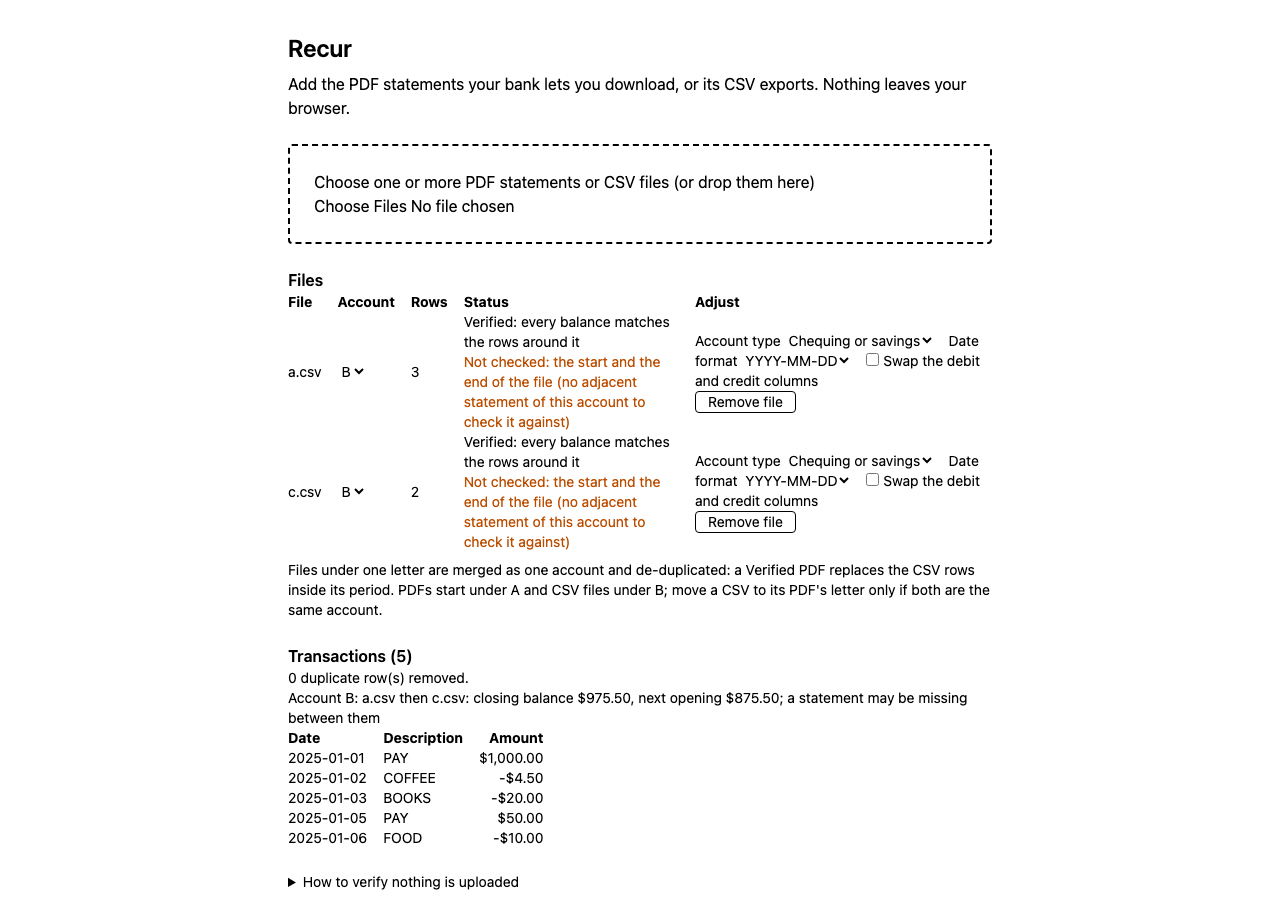
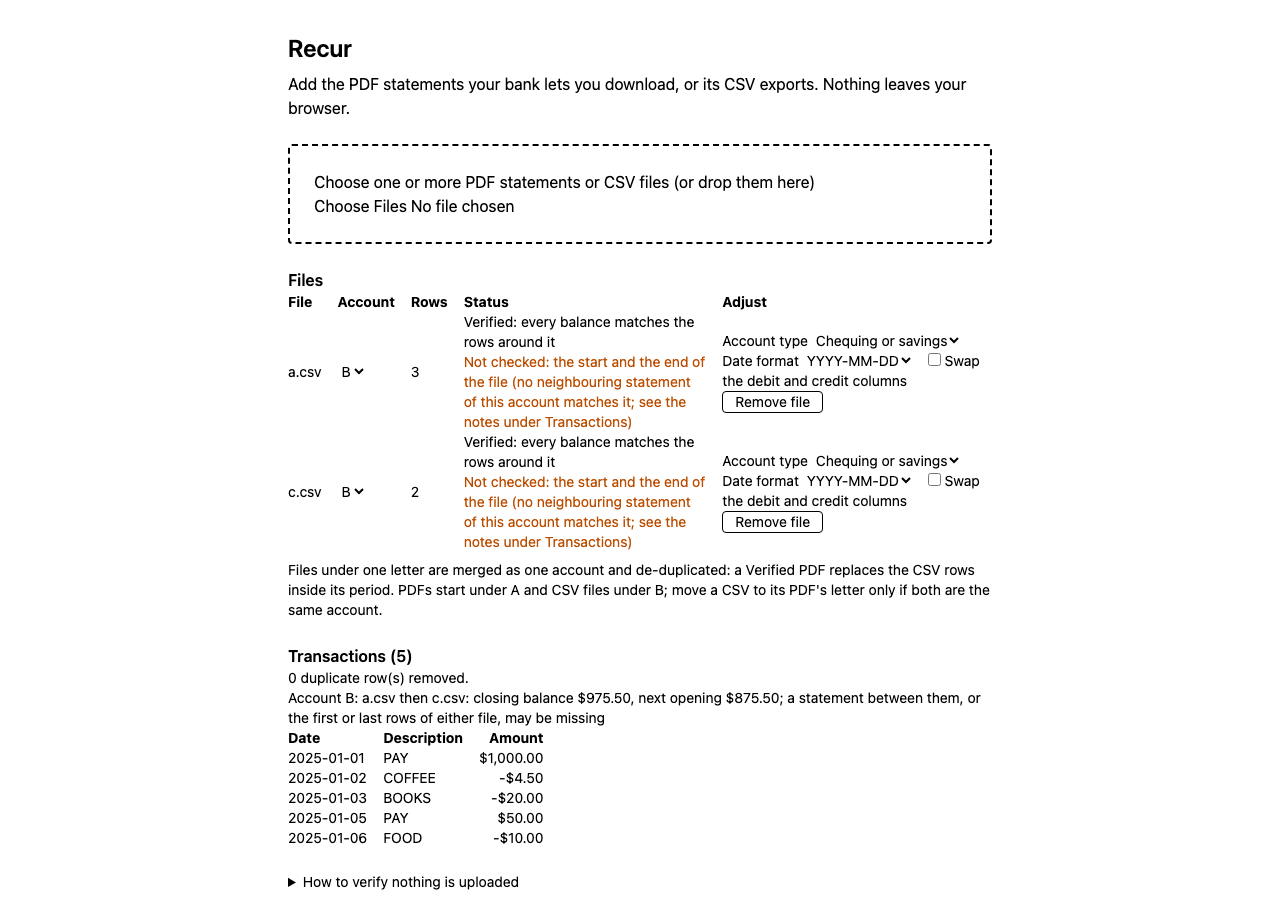
Fix chain wording and add a newest-first property (review notes from #45)

diff --git a/src/core/chain.test.ts b/src/core/chain.test.ts
@@ -129,6 +129,17 @@ describe("chainStatements", () => {
     expect(outcomes(chainStatements([a, csvB()]))).toEqual(["chained"]);
   });
 
+  test("an unchainable reason names no internal id", () => {
+    const [b] = chainStatements([
+      { ...csvA(), warnings: ["x"] },
+      csvB(),
+    ]).boundaries;
+    expect(b?.outcome).toEqual({
+      status: "unchainable",
+      reason: "the earlier statement: it is not verified",
+    });
+  });
+
   test("every date the same: unchainable", () => {
     const flat = make({
       id: "a",
@@ -352,6 +363,21 @@ describe("chainStatements properties", () => {
           expect(e?.start).toBe(!(k === 0 && s.input === "csv"));
           expect(e?.end).toBe(!(k === specs.length - 1 && s.input === "csv"));
         });
+      }),
+      { numRuns: 100 },
+    );
+  });
+
+  test("a newest-first CSV gives the same chain as the same CSV oldest-first", () => {
+    fc.assert(
+      fc.property(history, (specs) => {
+        const stmts = build(specs);
+        const flipped = stmts.map((s) =>
+          s.input === "csv"
+            ? { ...s, transactions: [...s.transactions].reverse() }
+            : s,
+        );
+        expect(chainStatements(flipped)).toEqual(chainStatements(stmts));
       }),
       { numRuns: 100 },
     );

diff --git a/src/ui/Importer.tsx b/src/ui/Importer.tsx
@@ -84,7 +84,7 @@ export function describeEnds(ends: { start: boolean; end: boolean }): string {
   );
   return open.length === 0
     ? ""
-    : `Not checked: the ${open.join(" and the ")} of the file (no adjacent statement of this account to check it against)`;
+    : `Not checked: the ${open.join(" and the ")} of the file (no neighbouring statement of this account matches it; see the notes under Transactions)`;
 }
 
 export function describeBoundary(
@@ -97,7 +97,7 @@ export function describeBoundary(
     case "chained":
       return "";
     case "gap":
-      return `${files}: closing balance ${formatCents(o.expected)}, next opening ${formatCents(o.actual)}; a statement may be missing between them`;
+      return `${files}: closing balance ${formatCents(o.expected)}, next opening ${formatCents(o.actual)}; a statement between them, or the first or last rows of either file, may be missing`;
     case "mismatch":
       return `${files}: closing balance ${formatCents(o.expected)}, next opening ${formatCents(o.actual)}; a row at the end of one file or the start of the other is missing or wrong`;
     case "unchainable":

diff --git a/src/core/chain.ts b/src/core/chain.ts
@@ -82,10 +82,10 @@ function judge(
     };
   }
   if (typeof a === "string") {
-    return { status: "unchainable", reason: `${prev.id}: ${a}` };
+    return { status: "unchainable", reason: `the earlier statement: ${a}` };
   }
   if (typeof b === "string") {
-    return { status: "unchainable", reason: `${next.id}: ${b}` };
+    return { status: "unchainable", reason: `the later statement: ${b}` };
   }
   const shared = next.period.start === prev.period.end;
   if (

diff --git a/src/ui/describeStatus.test.ts b/src/ui/describeStatus.test.ts
@@ -71,6 +71,7 @@ test("describeBoundary names both files and the balances, and is empty when chai
   expect(gap).toContain("975.50");
   expect(gap).toContain("875.50");
   expect(gap).toMatch(/may be missing/);
+  expect(gap).toMatch(/first or last rows/);
   expect(
     describeBoundary(
       { ...base, outcome: { status: "mismatch", expected: 1, actual: 2 } },

diff --git a/docs/PROGRESS.md b/docs/PROGRESS.md
@@ -160,6 +160,13 @@ Queued by the autonomous workflow. Claude does not attempt these.
 
 Newest first. One entry per session: date, what changed, what was verified, what is next.
 
+### 2026-11-20 — Review notes from PR #45
+
+- Fixed the non-blocking notes: the gap text now says a statement between the files, or the first or last rows of either file, may be missing (a CSV's period comes from its rows, so a removed edge row also shows as a gap); the per-file "Not checked" line no longer claims there is no neighbour; the unchainable reason no longer shows an internal id; a property pins that a newest-first CSV chains like the same CSV oldest-first. Screenshot `docs/evidence/chain-boundary.png` retaken.
+- Not done: the `doubt-driven-development` pass that ADR-025 and `skill-selection.md` name for #31 was not run; the Opus reviewer of PR #45 did an adversarial read with scratch tests through `toStatement` instead. PR #45's body gave a wrong reason for skipping it.
+- Previous PR (#45): one review round (APPROVE, five non-blocking notes), CI green on the first run.
+- Verified: typecheck, `npm test` (479 passed), `npm run e2e` (9 passed, outside the sandbox). Not verified: any real statement.
+
 ### 2026-11-20 — Statement chaining (#31, ADR-025)
 
 - Opus designed ADR-025 (accepted): the ends of a statement come only from a verified statement (PDF: printed opening balance, closing = opening + net; CSV: first and last row balances in time order), the caller groups by account, adjacent statements are judged `chained`, `gap`, `mismatch` or `unchainable`. New `src/core/chain.ts` (`chainStatements`), `Ledger.chain`, AC-2 reworded in the PRD. UI: a per-file note for unchecked CSV ends and a per-account list of boundaries that do not chain (names both files and both balances). Deviation from the ADR text: the file status stays "Verified: ..." and the unchecked ends are a separate line, so the existing wording and e2e checks are unchanged.
